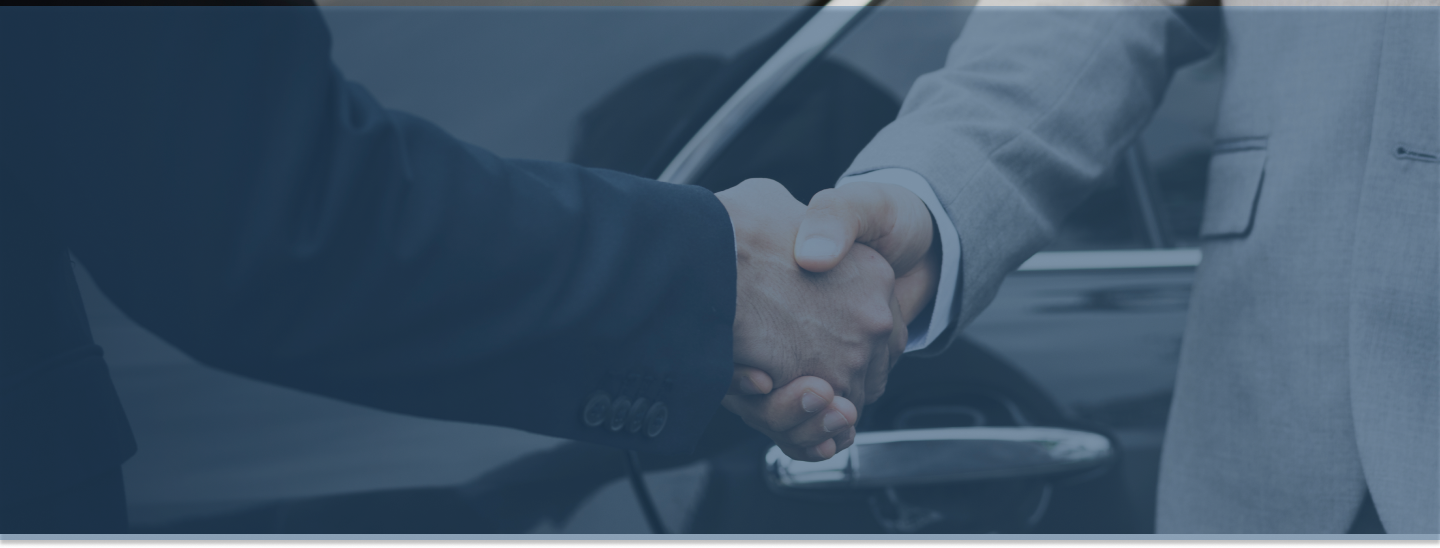
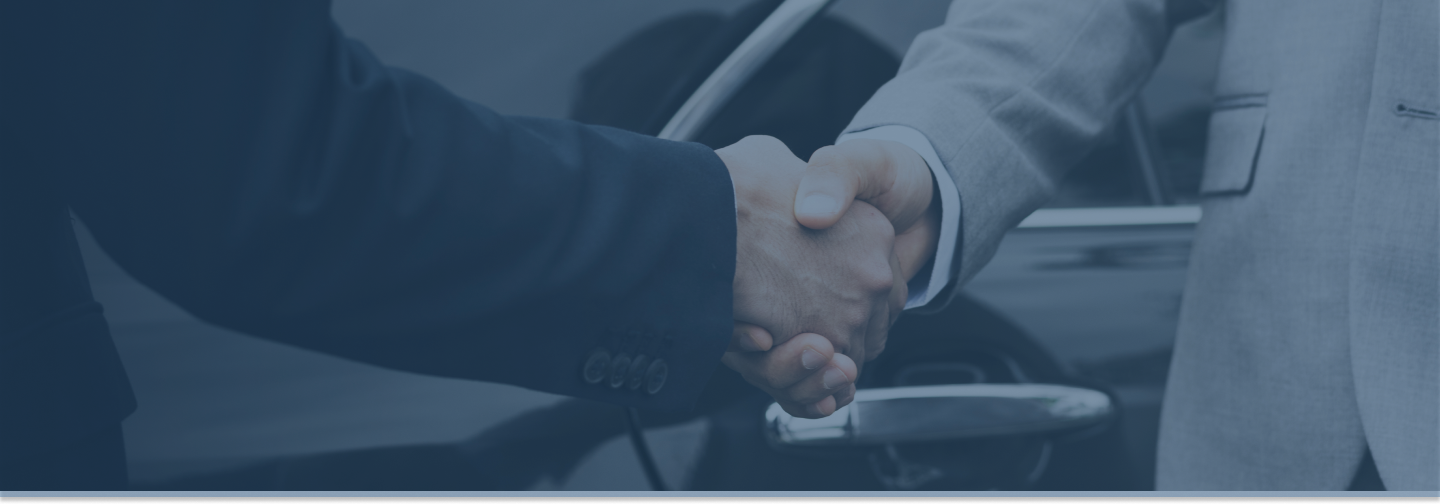
Section 1 terminada arregle tambien un bug del rectangulo separador y una imagen

diff --git a/style/style.css b/style/style.css
@@ -20,6 +20,12 @@
     --font-Lato: Lato;
 }
 
+header {
+    height: 500px;
+    overflow-y: hidden;
+}
+
+
 nav {
     width: 100%;
    /* position: fixed;*/
@@ -69,79 +75,18 @@ nav .nav-links a:hover {
     padding: 10px;
 }
 
-
-@media (max-width: 768px){
-    .nav label {
-        display: inline-block;
-        position: absolute;
-        right: 5em;
-        top: 1em;
-    }
-
-    .nav .nav-links {
-        position: fixed;
-        top: 5em;
-        background-color: #ffff;
-        width: 70%;
-        margin-right: -70%;;
-        margin-top: 0px;
-    }
-
-    .nav-links a{
-        display: block;
-        padding: 1em;
-    }
-
-    #btn-menu:checked ~ .nav-links{
-        margin-right: 0px;
-        transition: all 0.5s;
-    }
-
-    .banner .title h1 {
-        margin-top: 30%;
-        font-size: 3em;
-        margin-left: 1em;
-        line-height: 50px;
-    }
-}
-
-@media (max-width: 500px) {
-    .nav .nav-logo {
-        display: inline-block;
-        margin-left: 2em;
-    }
-    
-    .nav label {
-        margin-right: -2em;
-    }
-
-    .banner .title h1{
-        margin-top: 37%;
-        font-size: 2.4em;
-        margin-left: 0.8em;
-        line-height: 50px;
-    }
-}
-
 .rectanguloseparador1{
     width: 100%;
     height:20px;
-    background-color:#4081BC;
-    opacity: 0.4;
+    background-color: rgba(64, 129, 188, 0.4);
 }
+
 .rectanguloseparador{
     width: 100%;
     height:20px;
     background-color:#637B90;
+}
 
-}
-  
-@media (min-width: 2500px){
-    .banner .title h1 {
-        margin-top: 8%;
-        font-size: 5em;
-    }
-}
 
 .banner {
     position: relative;
@@ -182,6 +127,116 @@ nav .nav-links a:hover {
 
 .ola {
     width: 100%;
+    height: 5em;
     position: relative;
     top: -6em;
+}
+
+.section1 {
+    display: flex;
+    flex-direction: row;
+    justify-content: center;
+    width: 100%;
+    margin-bottom: 5em;
+}
+
+.section1 .item {
+    display: flex;
+    flex-direction: column;
+    width: 20em;
+}
+
+.section1 .item img{
+    margin: auto;
+    width: 80px;
+    height: 80px;
+    margin-bottom: 0.5em;
+}
+
+.section1 .item p {
+    text-align: center;
+    margin: auto;
+    color: var(--bitcoin-gray);
+    font-weight: bold;
+    font-size: 1.2em;
+}
+
+@media (max-width: 768px){
+    .nav label {
+        display: inline-block;
+        position: absolute;
+        right: 5em;
+        top: 1em;
+    }
+
+    .nav .nav-links {
+        position: fixed;
+        top: 5em;
+        background-color: #ffff;
+        width: 70%;
+        margin-right: -70%;;
+        margin-top: 0px;
+    }
+
+    .nav-links a{
+        display: block;
+        padding: 1em;
+    }
+
+    #btn-menu:checked ~ .nav-links{
+        margin-right: 0px;
+        transition: all 0.5s;
+    }
+
+    .banner .title h1 {
+        margin-top: 30%;
+        font-size: 3em;
+        margin-left: 1em;
+        line-height: 50px;
+    }
+
+    .section1 .item img{
+        width: 50px;
+        height: 50px;
+    }
+
+    .section1 .item p {
+        font-size: 1em;
+    }
+
+}
+
+@media (max-width: 500px) {
+    .nav .nav-logo {
+        display: inline-block;
+        margin-left: 2em;
+    }
+    
+    .nav label {
+        margin-right: -2em;
+    }
+
+    .banner .title h1{
+        margin-top: 37%;
+        font-size: 2.4em;
+        margin-left: 0.8em;
+        line-height: 50px;
+    }
+
+    .section1 .item img{
+        width: 40px;
+        height: 40px;
+    }
+
+    .section1 .item p {
+        font-size: 0.8em;
+    }
+
+}
+
+@media (min-width: 2500px){
+    .banner .title h1 {
+        margin-top: 8%;
+        font-size: 5em;
+    }
 }

diff --git a/index.html b/index.html
@@ -52,7 +52,18 @@
     <main>
 
         <section class="section1">
-
+            <div class="item">
+                <img src="src/item1.png">
+                <p>Professional team</p>
+            </div>
+            <div class="item">
+                <img src="src/item2.png">
+                <p>Completely secure service</p>
+            </div>
+            <div class="item">
+                <img src="src/item3.png">
+                <p>Satisfaction Guaranteed</p>
+            </div>
         </section>
 
         <section class="section2">
@@ -75,7 +86,7 @@
 
 
 
-        <div class="rectanguloseparador">
+        <div class="rectanguloseparador"></div>
 
         </div>
 

diff --git a/style/section5.css b/style/section5.css
@@ -1,5 +1,6 @@
 .section5{
     background-image: url(../src/fondosection5.png);
+    background-size: cover;
     height: 547px;
     color: white;
     display:flex;
